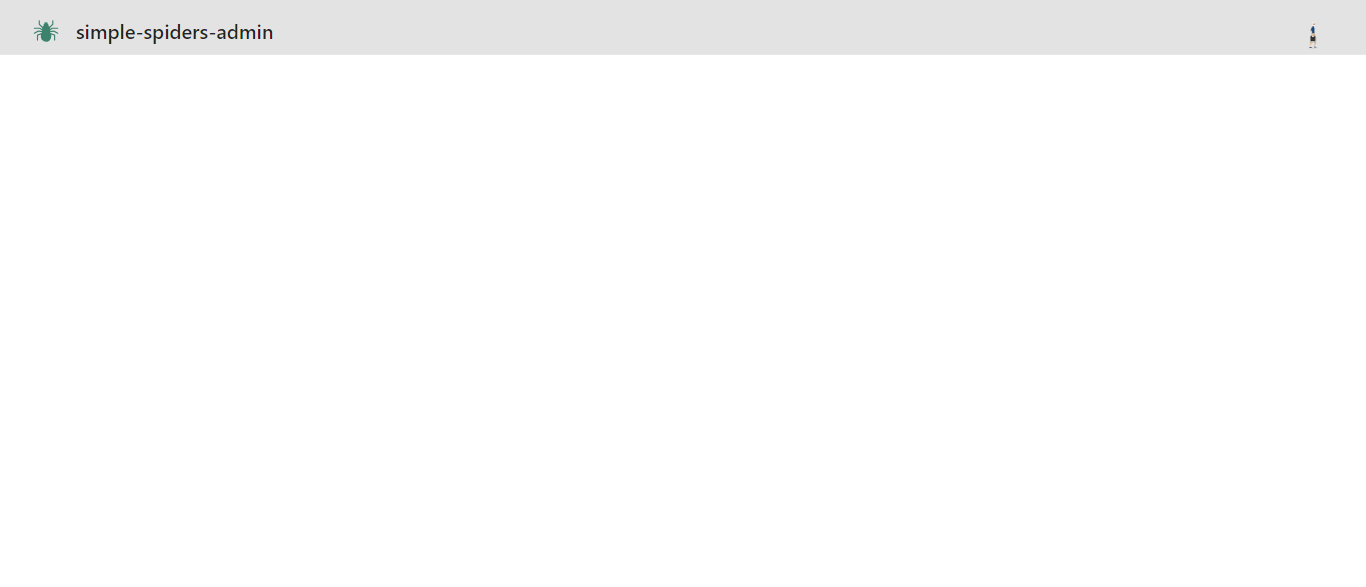
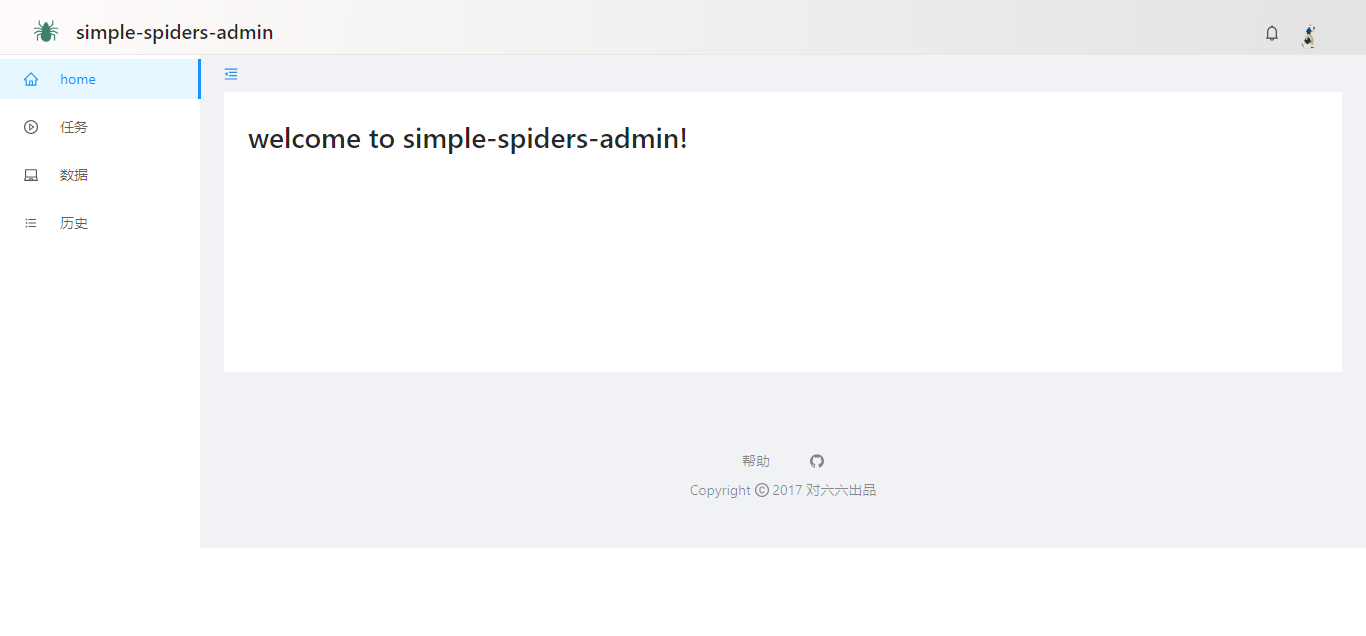
更新layout

diff --git a/simple-spiders-admin/src/component/layout/MyLayout.jsx b/simple-spiders-admin/src/component/layout/MyLayout.jsx
@@ -1,0 +1,94 @@
+import React from 'react'
+import { BrowserRouter, Link } from "react-router-dom";
+import PropTypes from "prop-types";
+import { Layout, Menu, Breadcrumb, Icon } from 'antd';
+import AppRouter from '../../router/router'
+import PagesHeader from './PageHeader';
+import PagesFooter from './PageFooter';
+
+const { Content, Sider } = Layout;
+
+export default class MyLayout extends React.Component {
+  static contextTypes = { router: PropTypes.object };
+  state = {
+    collapsed: false,
+    width: 200
+  }
+
+  changeRouter = (event) => {
+    // 改变路由显示
+    console.log(this.context.router.history.location);
+  }
+
+  toggleCollapsed = () => {
+    this.setState({
+      collapsed: !this.state.collapsed,
+      width: this.state.collapsed ? 200 : 55
+    });
+  }
+
+  render() {
+    return (
+      <BrowserRouter>
+        <Layout>
+          <PagesHeader />
+          <Layout>
+
+            <Sider width={this.state.width} style={{ background: '#fff' }}>
+              <Menu
+                mode="inline"
+                defaultSelectedKeys={['0']}
+                defaultOpenKeys={['sub1']}
+                style={{ height: '100%', borderRight: 0 }}
+                inlineCollapsed={this.state.collapsed}
+              >
+                <Menu.Item key="0" onClick={this.changeRouter}>
+                  <Link to='/'>
+                    <Icon type="home" />
+                    <span style={{ padding: '0 0 0 12px' }}>home </span>
+                  </Link>
+                </Menu.Item>
+                <Menu.Item key="1" onClick={this.changeRouter}>
+                  <Link to='/jobscheduler'>
+                    <Icon type="play-circle" />
+                    <span style={{ padding: '0 0 0 12px' }}>任务 </span>
+                  </Link>
+                </Menu.Item>
+                <Menu.Item key="2" onClick={this.changeRouter}>
+                  <Link to='/dataview'>
+                    <Icon type="laptop" />
+                    <span style={{ padding: '0 0 0 12px' }}>数据 </span>
+                  </Link>
+                </Menu.Item>
+                <Menu.Item key="3" onClick={this.changeRouter}>
+                  <Link to='/history'>
+                    <Icon type="bars" />
+                    <span style={{ padding: '0 0 0 12px' }}>历史 </span>
+                  </Link>
+                </Menu.Item>
+              </Menu>
+            </Sider>
+
+            <Layout style={{ padding: '0 24px 24px' }}>
+              <Breadcrumb style={{ margin: '8px 0' }}>
+                <Breadcrumb.Item>
+                  <Icon className="collapse" type={this.state.collapsed ? 'menu-unfold' : 'menu-fold'} onClick={this.toggleCollapsed} />
+                </Breadcrumb.Item>
+
+                {/* <Breadcrumb.Item>Home</Breadcrumb.Item>
+                <Breadcrumb.Item>List</Breadcrumb.Item>
+                <Breadcrumb.Item>App</Breadcrumb.Item> */}
+              </Breadcrumb>
+              <Content style={{ background: '#fff', padding: 24, margin: 0, minHeight: 280 }}>
+                <AppRouter />
+              </Content>
+              <PagesFooter />
+            </Layout>
+
+          </Layout>
+
+        </Layout>
+      </BrowserRouter>
+    );
+  }
+}

diff --git a/simple-spiders-admin/src/component/layout/SlideBar.jsx b/simple-spiders-admin/src/component/layout/SlideBar.jsx
@@ -1,0 +1,50 @@
+import React from 'react'
+import { Layout, Menu, Icon, Button } from 'antd';
+
+const { Header, Content, Sider } = Layout;
+
+const SubMenu = Menu.SubMenu;
+
+export default class SlideBar extends React.Component {
+  state = {
+    collapsed: false,
+  }
+
+  toggleCollapsed = () => {
+    this.setState({
+      collapsed: !this.state.collapsed,
+    });
+  }
+
+  render() {
+    return (
+      <div style={{ width: 156 }}>
+        <Button type="primary" onClick={this.toggleCollapsed} style={{ marginBottom: 16 }}>
+          <Icon type={this.state.collapsed ? 'menu-unfold' : 'menu-fold'} />
+        </Button>
+        <Sider width={200} style={{ background: '#fff' }}>
+          <Menu
+            mode="inline"
+            defaultSelectedKeys={['1']}
+            defaultOpenKeys={['sub1']}
+            style={{ height: '100%', borderRight: 0 }}
+            inlineCollapsed={this.state.collapsed}
+          >
+            <Menu.Item key="1">
+              <Icon type="home" />
+              <span>Home </span>
+            </Menu.Item>
+            <Menu.Item key="2">
+              <Icon type="laptop" />
+              <span>任务 </span>
+            </Menu.Item>
+            <Menu.Item key="3">
+              <Icon type="bars" />
+              <span>历史 </span>
+            </Menu.Item>
+          </Menu>
+        </Sider>
+      </div>
+    );
+  }
+}

diff --git a/simple-spiders-admin/src/component/layout/PageHeader.jsx b/simple-spiders-admin/src/component/layout/PageHeader.jsx
@@ -1,16 +1,17 @@
 import React from 'react';
 import PageHeader from 'ant-design-pro/lib/PageHeader';
-import { Button, Menu, Dropdown, Icon } from 'antd';
-import spiderSVG from '../images/spider.svg'
-import rightIcon from '../images/interesting.gif'
+import NoticeIcon from 'ant-design-pro/lib/NoticeIcon';
+import spiderSVG from '../../images/spider.svg'
+import rightIcon from '../../images/interesting.gif'
 
 export default class PagesHeader extends React.Component {
+  state = { msgCount: 0 }
   render() {
-    const ButtonGroup = Button.Group;
-    const title = <h4>simple-spiders-admin</h4>;
+    const title = <span>simple-spiders-admin</span>;
     const action = (
       <div>
-        <img className="usericon" alt="" src={rightIcon} />
+        <NoticeIcon count={this.state.msgCount} />
+        <img className="righticon" alt="" src={rightIcon} />
       </div>
     );
     return (

diff --git a/simple-spiders-admin/src/style/common.css b/simple-spiders-admin/src/style/common.css
@@ -1,10 +1,35 @@
-.pageheader{
+.pageheader {
+  z-index: 10000;
   height: 55px;
-  background-color: #e3e3e3;
+  background: -webkit-linear-gradient(#fffbfb, #e3e3e3);
+  /* Safari 5.1 - 6.0 */
+  background: -o-linear-gradient(#fffbfb, #e3e3e3);
+  /* Opera 11.1 - 12.0 */
+  background: -moz-linear-gradient(#fffbfb, #e3e3e3);
+  /* Firefox 3.6 - 15 */
+  background: linear-gradient(left top, #fffbfb, #e3e3e3);
 }
 
-.usericon{
-  width: 42px;
+.righticon {
+  width: 50px;
   height: 38px;
   border-radius: 4px;
+}
+
+#components-layout-demo-top-side-2 .logo {
+  width: 120px;
+  height: 31px;
+  background: rgba(255, 255, 255, .2);
+  margin: 16px 28px 16px 0;
+  float: left;
+}
+
+.collapse {
+  color: #1890ff;
+  padding-right: 6px;
+}
+
+.collapse :hover {
+  color: #1890ff;
+  opacity: 0.8;
 }

diff --git a/simple-spiders-admin/src/component/layout/PageFooter.jsx b/simple-spiders-admin/src/component/layout/PageFooter.jsx
@@ -1,0 +1,26 @@
+import React from 'react'
+import GlobalFooter from 'ant-design-pro/lib/GlobalFooter';
+import { Icon } from 'antd';
+
+export default class PageFooter extends React.Component {
+  render() {
+    const links = [{
+      key: '帮助',
+      title: '帮助',
+      href: 'https://github.com/duiliuliu/simple-spiders-admin',
+    }, {
+      key: 'github',
+      title: <Icon type="github" />,
+      href: 'https://github.com/duiliuliu/simple-spiders-admin',
+      blankTarget: true,
+    }];
+
+    const copyright = <div>Copyright <Icon type="copyright" /> 2017 对六六出品</div>;
+    return (
+      <div style={{ overflow: 'hidden' }}>
+        <div style={{ height: 30 }} />
+        <GlobalFooter links={links} copyright={copyright} />
+      </div>
+    )
+  }
+}

diff --git a/simple-spiders-admin/src/router/router.jsx b/simple-spiders-admin/src/router/router.jsx
@@ -1,0 +1,25 @@
+import React from "react";
+import { Route } from "react-router-dom";
+import JobScheduler from "../component/jobscheduler/JobScheduler";
+import Dataview from "../component/dataview/DataView";
+import History from "../component/history/History";
+import Home from "../component/home/Home";
+
+export default class AppRouter extends React.Component {
+  constructor(props) {
+    super(props);
+    this.state = {};
+  }
+
+  render() {
+
+    return (
+      <div>
+        <Route exact path="/" component={Home} />
+        <Route exact path="/jobscheduler" component={JobScheduler} />
+        <Route exact path={"/dataview"} component={Dataview} />
+        <Route exact path={"/history"} component={History} />
+      </div>
+    );
+  }
+}

diff --git a/simple-spiders-admin/src/App.js b/simple-spiders-admin/src/App.js
@@ -1,7 +1,7 @@
 import React from 'react';
-import logo from './logo.svg';
 import 'ant-design-pro/dist/ant-design-pro.css'; // 统一引入样式
-import PagesHeader from './component/PageHeader';
+import { BrowserRouter } from "react-router-dom";
+import Layout from "./component/layout/MyLayout";
 import './App.css';
 
 
@@ -9,7 +9,9 @@ class App extends React.Component {
   render() {
     return (
       <div>
-        <PagesHeader/>
+        <BrowserRouter>
+          <Layout />
+        </BrowserRouter>
       </div>
     );
   }

diff --git a/simple-spiders-admin/src/component/home/Home.jsx b/simple-spiders-admin/src/component/home/Home.jsx
@@ -1,0 +1,9 @@
+import React from 'react'
+
+export default class Home extends React.Component {
+  render() {
+    return (
+      <h1>welcome to simple-spiders-admin!</h1>
+    )
+  }
+}

diff --git a/simple-spiders-admin/src/component/jobscheduler/JobScheduler.jsx b/simple-spiders-admin/src/component/jobscheduler/JobScheduler.jsx
@@ -1,0 +1,9 @@
+import React from 'react'
+
+export default class JobScheduler extends React.Component {
+  render() {
+    return (
+      <h1>这是JobScheduler!</h1>
+    )
+  }
+}

diff --git a/simple-spiders-admin/src/component/dataview/DataView.jsx b/simple-spiders-admin/src/component/dataview/DataView.jsx
@@ -1,0 +1,9 @@
+import React from 'react'
+
+export default class Dataview extends React.Component {
+  render() {
+    return (
+      <h1>这是dataview!</h1>
+    )
+  }
+}

diff --git a/simple-spiders-admin/src/component/history/History.jsx b/simple-spiders-admin/src/component/history/History.jsx
@@ -1,0 +1,9 @@
+import React from 'react'
+
+export default class History extends React.Component {
+  render() {
+    return (
+      <h1>这是history!</h1>
+    )
+  }
+}

diff --git a/README.md b/README.md
@@ -1,4 +1,4 @@
 # simple-spiders-admin
-插件 管理工具
+可插拔插件  管理工具
 
-![init](./images/init.png)
+![init](./images/init.gif)
